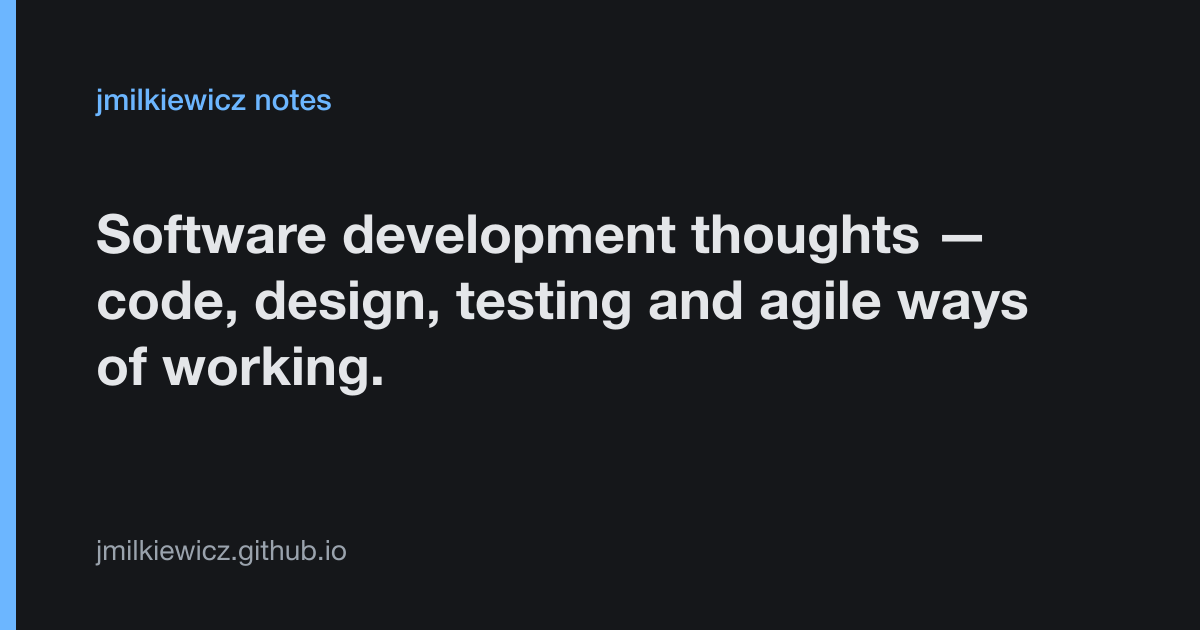
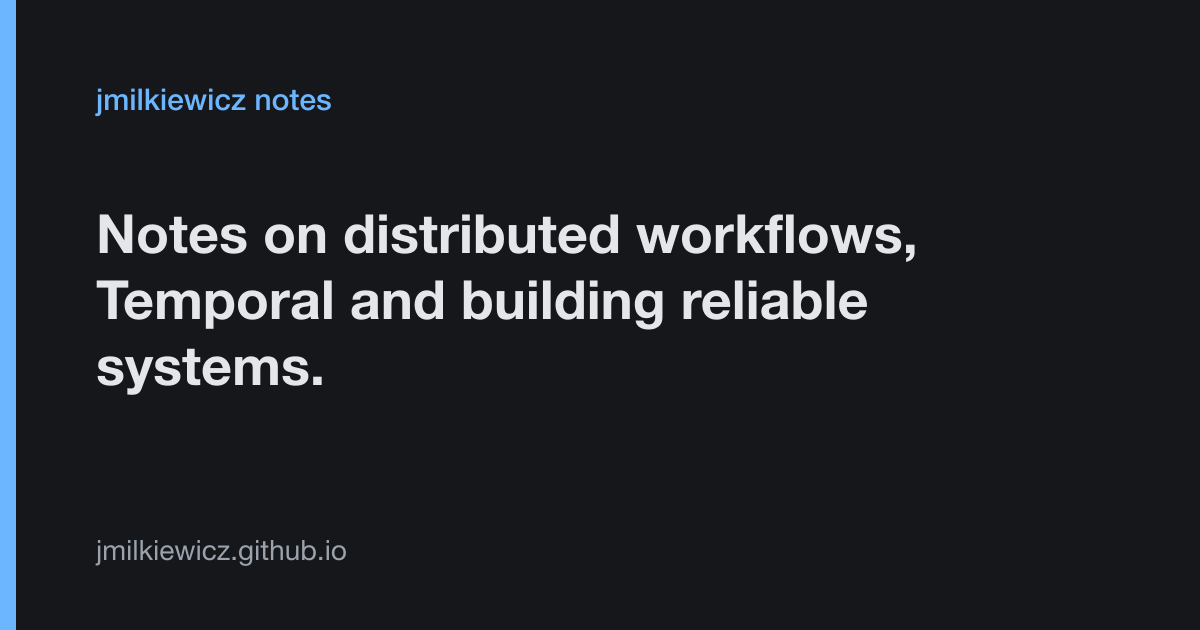
changes

Changed region(s): [[0.0617, 0.3317, 0.8633, 0.5429], [0.0617, 0.5429, 0.3083, 0.6333]]

diff --git a/_layouts/post.html b/_layouts/post.html
@@ -28,6 +28,8 @@ layout: default
 
   {%- if series_parts.size > 1 %}{% include series-pager.html parts=series_parts index=series_index %}{% endif %}
 
+  <p class="post-disclaimer"><em>Code and numbers are simplified and illustrative. Opinions are my own.</em></p>
+
   <nav class="post-nav">
     <a href="{{ '/' | relative_url }}">← All posts</a>
   </nav>

diff --git a/_posts/2026-10-07-temporal-accepted-is-not-done.md b/_posts/2026-10-07-temporal-accepted-is-not-done.md
@@ -1,5 +1,5 @@
 ---
-title: "Accepted is not done: how a fan-out of 200,000 workflows made our Temporal cluster look frozen"
+title: "Accepted is not done: how a fan-out of 100,000+ workflows made our Temporal cluster look frozen"
 description: "How starting one Temporal workflow per item made our cluster look frozen, why batching starts is not backpressure, and how a sliding window on handle.result() fixed it."
 tags: [temporal, typescript, postgresql, backpressure, scalability]
 series: "Temporal in production"
@@ -11,7 +11,7 @@ This is the second post in my Temporal series. The first one was about a contrac
 
 The short version: **a started workflow is not a finished one.** Our importer waited for the first and ignored the second.
 
-As before, the domain is anonymized, and it's snacks again. Instead of the real data, we import a tasting archive: a large export from a snack-tasting app, where each tasting note can carry attachments such as photos and scanned wrappers. The code is simplified, but the shape of the problem and the numbers are real. The names are not.
+As before, the domain is anonymized, and it's snacks again. Instead of the real data, we import a tasting archive: a large export from a snack-tasting app, where each tasting note can carry attachments such as photos and scanned wrappers. The code is simplified and the numbers are illustrative.
 
 ## Act I: one workflow per tasting note
 
@@ -19,7 +19,7 @@ The design was simple, and for small archives it worked. An import activity read
 
 Each workflow type has its own task queue and its own workers. Some activities are shared, though. `tagFlavors`, for example, is called both from note workflows and from photo workflows, and all of its executions run on one dedicated activity task queue.
 
-Everybody knew that one workflow per note was not the most efficient design. It was the easiest one, and while the archives were small, nobody felt the cost.
+It was the simplest design, and at small scale the cost was invisible.
 
 The importer looked roughly like this (simplified):
 
@@ -56,14 +56,14 @@ So the batching doesn't throttle the system. Send 200 starts, wait for 200 ackno
 
 ## Act II: the freeze
 
-Then the archives got big. The largest one I processed had around 200,000 tasting notes, many of them with attachments. I have seen an export with over 400,000, but I never ran anything that large through this pipeline.
+Then the archives got big. The largest ones had well over a hundred thousand tasting notes, many of them with attachments. Exports could be larger still, but I never ran anything that large through this pipeline.
 
 What we saw:
 
 - Temporal UI showed an enormous number of running workflows, and almost none of them made progress.
 - Some workflows waited hours for their **first workflow task**. Not an activity: the very first step of the workflow code.
-- The PostgreSQL database behind Temporal (where workflow histories live), with 5 CPUs in Kubernetes, sat at its CPU limit.
-- Processing a single archive took up to about 15 hours.
+- The PostgreSQL database behind Temporal (where workflow histories live), a modest instance, sat at its CPU limit.
+- Processing a single archive took about 16 hours.
 
 Watching it live was strange. A batch of 200 workflows appeared in Temporal UI, and some of them started making progress. A fraction of a second later came the next 200, and a smaller share of those got going. Then the next 200, with an even smaller share. And so on. Things began to unclog, slowly, only once the importer stopped scheduling new workflows.
 
@@ -83,7 +83,7 @@ Here is my best explanation of what happened. It fits everything we observed, bu
 
 **Every start costs the database work.** Accepting a start means persisting the execution, its first history events and a task that hands the first workflow task over to matching. Our importer produced these writes as fast as the server would accept them, so the database was busy mostly with new starts.
 
-**Workflow tasks pile up.** Kubernetes scaled the note workers out to eight instances, and they still couldn't keep up, so a backlog built up. The first workflow tasks of hundreds of thousands of new workflows filled the queue, adding latency for every workflow that had already been started. For comparison, the bounded version described below ran comfortably on two workers.
+**Workflow tasks pile up.** Kubernetes scaled the note workers out to a handful of instances, and they still couldn't keep up, so a backlog built up. The first workflow tasks of hundreds of thousands of new workflows filled the queue, adding latency for every workflow that had already been started. For comparison, the bounded version described below ran comfortably on a couple of workers.
 
 **The real work has to queue too.** When an early note workflow finally ran, it called `tagFlavors` and started child workflows for its attachments. Separate task queues per workflow type helped a little: a photo workflow didn't wait behind the first tasks of note workflows. The shared activity queue didn't help at all. A `tagFlavors` call from a photo workflow had to compete with the `tagFlavors` calls of nearly every note in the archive.
 
@@ -144,7 +144,7 @@ There is also a timer that heartbeats every 5 minutes, because with a full windo
 
 Notes that fail are logged and counted, but they don't fail the import. Each note has its own workflow history and can be retried on its own.
 
-The result: the freeze disappeared immediately, and a similar archive was processed in about 7 hours instead of about 15.
+The result: the freeze disappeared immediately, and a similar archive was processed in about 8 hours instead of about 16.
 
 And that was with `synchronous_commit` back on. For the bounded version we restored the default, so the database was back to full durability, and the improvement came from the code change alone.
 
@@ -162,7 +162,7 @@ throughput = items in flight / average time in flight
 
 We doubled it to 100.
 
-Read backwards, the numbers hang together. 200,000 notes in about 7 hours is roughly 8 notes per second. With 100 in flight, that means about 12 seconds per note on average, attachments included. As a rough upper-bound estimate, assuming the same average time in flight, a window of 50 would have taken around 14 hours, about as long as the unbounded version. In practice it would probably have been somewhat less, because a smaller window also means less load and shorter waits.
+Read backwards, the numbers hang together. Take an archive of 100,000 notes processed in about 8 hours: that is roughly 3.5 notes per second. With 100 in flight, that means about 30 seconds per note on average, attachments included. As a rough upper-bound estimate, assuming the same average time in flight, a window of 50 would have taken around 16 hours, about as long as the unbounded version. In practice it would probably have been somewhat less, because a smaller window also means less load and shorter waits.
 
 I also ran short experiments with windows of 120, 150 and 200, and none of them looked bad. 150 looked especially good when the workflows were very short, because many notes took the early exit described above. Short workflows put little load on the rest of the system, so more of them can be in flight before anything downstream saturates. Overall, 100 and 150 gave very similar results. The best value depends on the data anyway, so we stayed with the more conservative 100.
 
@@ -238,6 +238,6 @@ We kept the activity because it was the smallest change to code that already wor
 
 With the window in place, imports stopped looking frozen and finished in about half the time.
 
-Some things we didn't change. The importer still reads the whole archive into memory. Each note workflow still receives the full note as its argument, so the data ends up in its history; passing an ID and loading the note in an activity would be lighter. And one workflow per note stayed. Moving away from it would have been a business decision, and not one I was in a position to make.
+Some things we didn't change. The importer still reads the whole archive into memory. Each note workflow still receives the full note as its argument, so the data ends up in its history; passing an ID and loading the note in an activity would be lighter. And one workflow per note stayed. Changing it was out of scope for this fix.
 
 The practical lesson: when you hand work to Temporal, decide up front how much of it may be in flight at once.

diff --git a/_posts/2026-10-09-temporal-execution-profile.md b/_posts/2026-10-09-temporal-execution-profile.md
@@ -1,6 +1,6 @@
 ---
 title: "Same signature, different beast: what happened when our Temporal activity stopped being pure I/O"
-description: "How swapping an LLM translation call for a local model turned each Temporal worker into a one-lane road, why it showed up as heartbeat timeouts, and why 60 replicas made it worse."
+description: "How swapping an LLM translation call for a local model turned each Temporal worker into a one-lane road, why it showed up as heartbeat timeouts, and why dozens of replicas made it worse."
 tags: [temporal, python, asyncio, kubernetes, keda, performance]
 series: "Temporal in production"
 series_part: 3
@@ -11,11 +11,11 @@ This is the third post in my Temporal series. The first was about a data contrac
 
 The short version: **one pod, one event loop, one translation at a time.** We replaced a network call with a blocking, CPU-bound model call inside an `async def` activity. From then on, each Python worker could run only one translation at a time, no matter how many it had accepted, and the translations waiting their turn couldn't even tell Temporal they were alive.
 
-As before, the domain is anonymized, and it's snacks again. Our app collects tasting notes from all over the world, and to show them in one feed, we translate them. The code is simplified. The settings and timeouts are the real ones.
+As before, the domain is anonymized, and it's snacks again. Our pipeline translates user-written text so it can be shown in one language. The code and settings are simplified.
 
 ## Act I: two branches that look the same
 
-Translation could go one of two ways, depending on how a client was configured:
+Translation could go one of two ways, depending on configuration:
 
 ```ts
 if (translationParameters.kind === "languageModel") {
@@ -41,7 +41,7 @@ Read it as the workflow sees it: same inputs, same output, two interchangeable i
 
 The TypeScript branch was boring in the best way. The activity sent a request to an LLM and awaited the response. While it waited, the Node.js event loop was free to run other activities. In Grafana, activity execution time was low and so was schedule-to-start latency. The worker spent most of its life waiting on sockets.
 
-At our scale, though, paying per token added up. So the company decided to translate with its own model, served by a new Python worker (one per Kubernetes pod) on a new task queue. Clients were moved to it gradually, which is why, for a while, only some of them were affected.
+The team moved translation to a self-hosted model, served by a new Python worker (one per Kubernetes pod) on a new task queue. Configurations were moved gradually, which is why, for a while, only some of them were affected.
 
 ## Act II: one pod, one lane
 
@@ -103,13 +103,14 @@ Meanwhile, Temporal retried the timed-out attempts. All of the activity's own er
 
 With the TypeScript activity, none of this showed. An LLM call yields at its `await`, so many requests can wait in parallel on one event loop, and a short heartbeat timeout is harmless. The Python activity kept the same workflow call but stopped yielding, and that removed the conditions that had made the timeout harmless.
 
-## Act IV: why 60 replicas made it worse
+## Act IV: why dozens of replicas made it worse
 
 When a queue backs up, the natural reaction is to add workers. The deployment already scaled with KEDA on the task-queue backlog:
 
 ```yaml
+# illustrative values
 minReplicaCount: 5
-maxReplicaCount: 60
+maxReplicaCount: 50
 pollingInterval: 3
 advanced:
   horizontalPodAutoscalerConfig:
@@ -139,7 +140,7 @@ Every new pod did add a lane. But it also brought the same problem with it:
 3. Each timeout puts a retry back on the queue, alongside the new work.
 4. The backlog grows, KEDA adds pods, and we go back to step 1.
 
-Every pod also loaded its own copy of the models, so 60 replicas meant 60 copies in memory. The cluster paid for all that capacity and the queue barely moved, because much of it went into work that had already timed out. The number of pods wasn't the problem. Each pod accepting far more work than it could start was.
+Every pod also loaded its own copy of the models, so dozens of replicas meant dozens of copies in memory. The cluster paid for all that capacity and the queue barely moved, because much of it went into work that had already timed out. The number of pods wasn't the problem. Each pod accepting far more work than it could start was.
 
 ## Act V: threads, and what they didn't change
 

diff --git a/_posts/2026-10-06-temporal-pipe-guarding.md b/_posts/2026-10-06-temporal-pipe-guarding.md
@@ -7,7 +7,7 @@ series_part: 1
 image: /assets/images/og-temporal-pipe-guarding.png
 ---
 
-I spent nine months working with [Temporal](https://temporal.io/) almost every day: designing workflows, debugging them in production and digging into how they work under the hood. That left me with plenty of stories worth writing down. This is the first post in a planned series (4-5 posts). I'm starting with a relatively simple topic, because it shows well how easily "working" code turns out to be fragile once two different languages sit on either end of the pipe.
+I spent nine months working with [Temporal](https://temporal.io/) almost every day: designing workflows, debugging them in production and digging into how they work under the hood. That left me with plenty of stories worth writing down. This is the first post in a four-part series. I'm starting with a relatively simple topic, because it shows well how easily "working" code turns out to be fragile once two different languages sit on either end of the pipe.
 
 The examples are simplified and anonymized (snacks instead of the real domain). You can run all of the code yourself, no Docker needed: [temporal-polyglot-playground](https://github.com/jmilkiewicz/temporal-polyglot-playground).
 

diff --git a/about.md b/about.md
@@ -11,9 +11,8 @@ and scale-ups.
 
 Some of the things I've built along the way:
 
-- **Workflow orchestration with Temporal**: as Tech Lead at Orcrist, a platform
-  that processes customer audio, video, images and chat exports through
-  configurable, LLM-powered pipelines (TypeScript workflows, Python activities).
+- **Workflow orchestration with Temporal**: as Tech Lead at Orcrist, a production platform
+  running multi-step, LLM-powered processing pipelines (TypeScript workflows, Python activities).
 - **Real-time bidding**: a DSP serving thousands of bids per second at Webtrekk,
   and later the discovery and architecture of a new RTB platform
   for a major Polish e-commerce company.
@@ -39,3 +38,4 @@ in durable execution, distributed workflows and LLM-based systems.
 - LinkedIn: [Jakub Milkiewicz](https://linkedin.com/in/jakub-milkiewicz-9a14612)
 - GitHub: [jmilkiewicz](https://github.com/jmilkiewicz)
 - RSS: [feed.xml]({{ '/feed.xml' | relative_url }})
+- Series: [Temporal in production]({{ '/series/' | relative_url }}#temporal-in-production)
